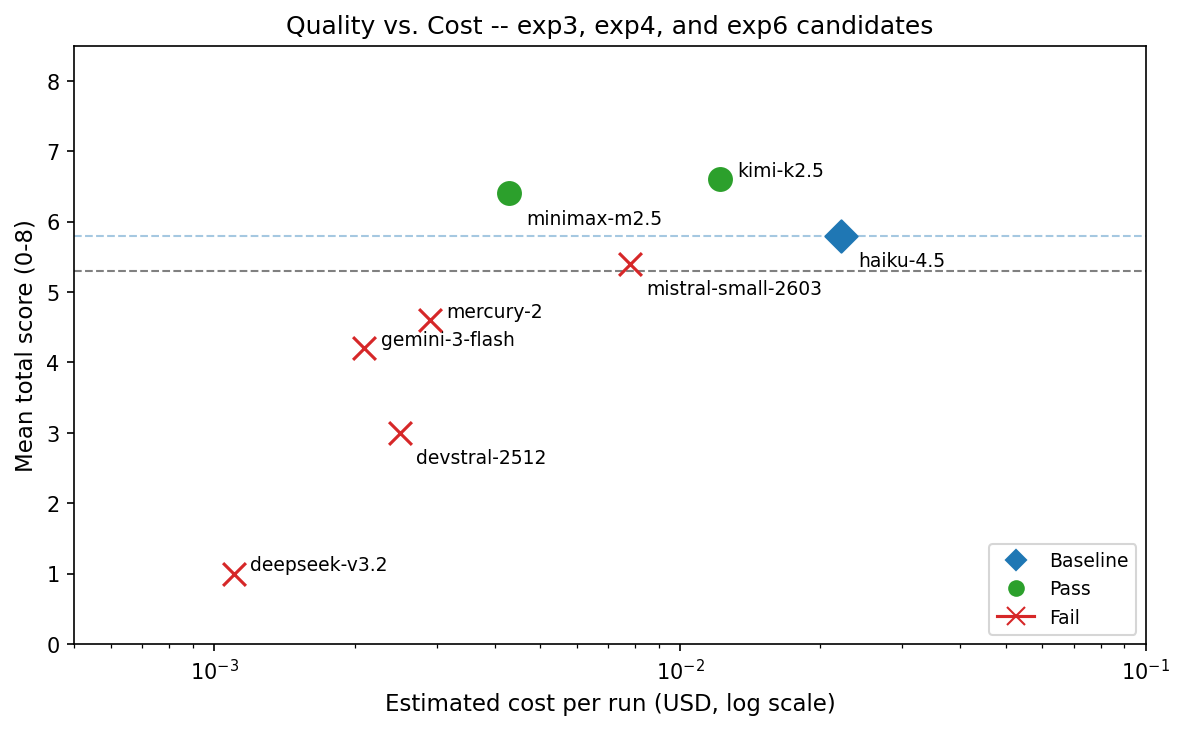
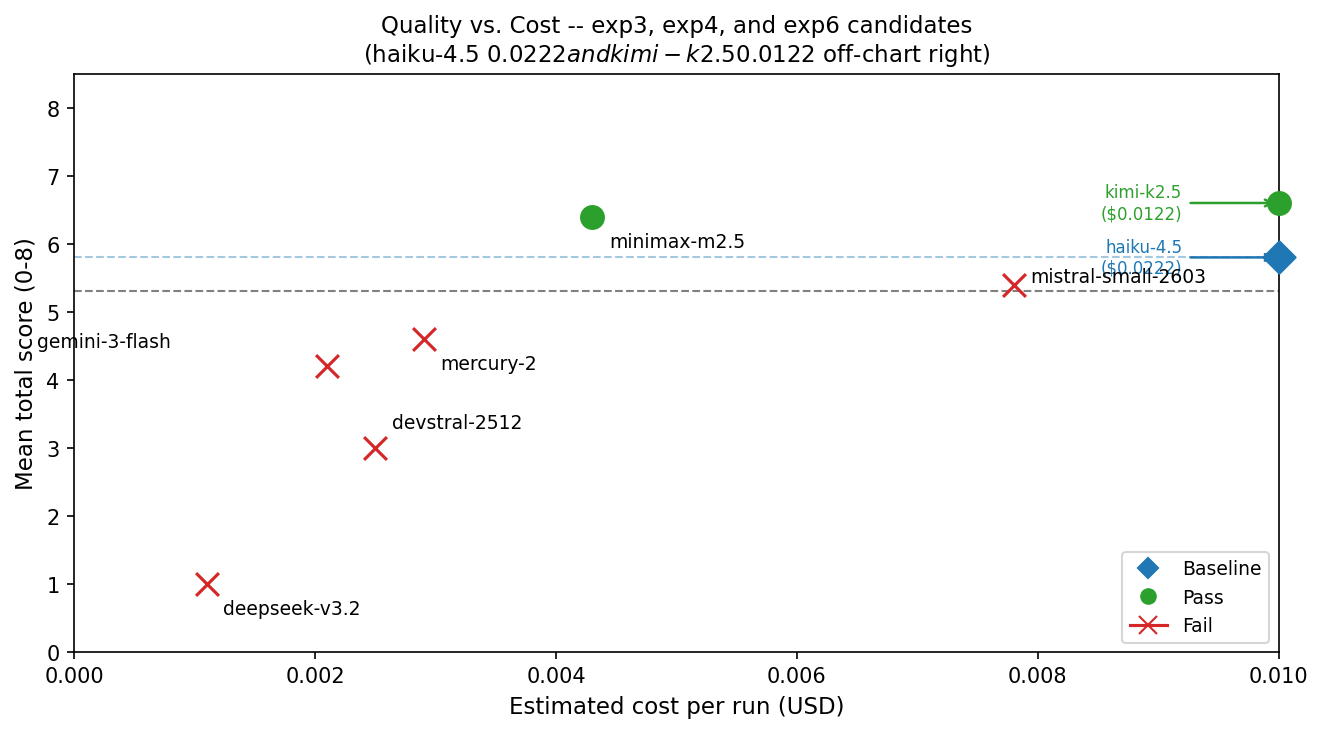
docs(figures): regenerate all four PNGs with Mercury 2
- cost-quality-scatter: switch to linear x-axis capped at $0.010;
  haiku-4.5 and kimi-k2.5 rendered as off-chart arrows so the cheap
  cluster (mercury-2, mistral-small-2603, deepseek, gemini, devstral)
  is clearly spread and readable
- mean-score-bar, criterion-heatmap, eff-cost-bar: regenerated with
  Mercury 2 row/bar added (red, fail verdict)

diff --git a/figures/cost-quality-scatter.py b/figures/cost-quality-scatter.py
@@ -11,32 +11,46 @@ verdicts   = ["baseline", "pass", "pass", "fail", "fail", "fail", "fail", "fail"
 colors  = {"baseline": "#1f77b4", "pass": "#2ca02c", "fail": "#d62728"}
 markers = {"baseline": "D", "pass": "o", "fail": "x"}
 offsets = {
-    "haiku-4.5":          (8, -12),
-    "kimi-k2.5":          (8,   4),
+    "haiku-4.5":          None,       # rendered as off-chart arrow
+    "kimi-k2.5":          (-70,  4),
     "minimax-m2.5":       (8, -12),
-    "gemini-3-flash":     (8,   4),
-    "devstral-2512":      (8, -12),
-    "deepseek-v3.2":      (8,   4),
-    "mistral-small-2603": (8, -12),
-    "mercury-2":          (8,   4),
+    "gemini-3-flash":     (-75,  12),
+    "devstral-2512":      (8,  12),
+    "deepseek-v3.2":      (8,  -12),
+    "mistral-small-2603": (8,   4),
+    "mercury-2":          (8,  -12),
 }
 
-fig, ax = plt.subplots(figsize=(8, 5))
+XMAX = 0.010
 
-ax.axhline(y=5.3, color="gray",    linestyle="--", linewidth=1)
-ax.axhline(y=5.8, color="#1f77b4", linestyle="--", linewidth=1, alpha=0.4)
+fig, ax = plt.subplots(figsize=(9, 5))
+
+ax.axhline(y=5.3, color="gray",    linestyle="--", linewidth=1, label="Gate threshold (5.3)")
+ax.axhline(y=5.8, color="#1f77b4", linestyle="--", linewidth=1, alpha=0.4, label="Baseline mean (5.8)")
 
 for m, c, s, v in zip(models, cost_usd, mean_score, verdicts):
-    ax.scatter(c, s, color=colors[v], marker=markers[v], s=120, zorder=5)
-    ax.annotate(m, (c, s), xytext=offsets[m], textcoords="offset points",
-                fontsize=9, ha="left", va="center")
+    if c > XMAX:
+        # off-chart: draw arrow from right edge inward
+        ax.annotate(
+            f"{m}\n(${c:.4f})",
+            xy=(XMAX, s),
+            xytext=(XMAX - 0.0008, s),
+            fontsize=8, ha="right", va="center", color=colors[v],
+            arrowprops=dict(arrowstyle="->", color=colors[v], lw=1.2),
+        )
+        ax.scatter(XMAX, s, color=colors[v], marker=markers[v], s=120, zorder=5, clip_on=False)
+    else:
+        ax.scatter(c, s, color=colors[v], marker=markers[v], s=120, zorder=5)
+        if offsets[m]:
+            ax.annotate(m, (c, s), xytext=offsets[m], textcoords="offset points",
+                        fontsize=9, ha="left" if offsets[m][0] > 0 else "right", va="center")
 
-ax.set_xscale("log")
-ax.set_xlim(0.0005, 0.1)
+ax.set_xlim(0, XMAX)
 ax.set_ylim(0, 8.5)
-ax.set_xlabel("Estimated cost per run (USD, log scale)", fontsize=11)
+ax.set_xlabel("Estimated cost per run (USD)", fontsize=11)
 ax.set_ylabel("Mean total score (0-8)", fontsize=11)
-ax.set_title("Quality vs. Cost -- exp3, exp4, and exp6 candidates", fontsize=12)
+ax.set_title("Quality vs. Cost -- exp3, exp4, and exp6 candidates\n(haiku-4.5 $0.0222 and kimi-k2.5 $0.0122 off-chart right)", fontsize=11)
+
 legend_elements = [
     Line2D([0], [0], marker="D", color="w", markerfacecolor="#1f77b4", markersize=9, label="Baseline"),
     Line2D([0], [0], marker="o", color="w", markerfacecolor="#2ca02c", markersize=9, label="Pass"),
